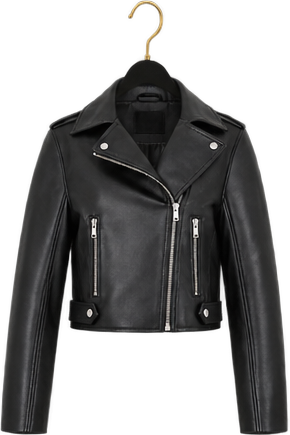
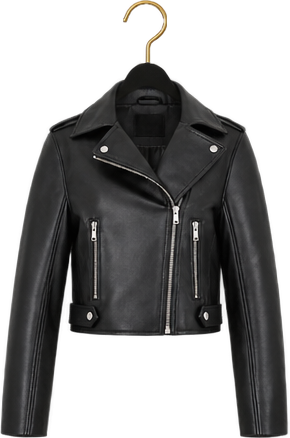
Cabides: gancho dourado unico em todas as pecas, na mesma altura e preso a barra
Claude-Session: https://claude.ai/code/session_01JWzVUcZkAyRrpFP19gM6id

diff --git a/index.html b/index.html
@@ -1697,12 +1697,12 @@ const rentalText=id=>{const r=RENTALS[id];return r?'Alugado de '+fmtBR(r.from)+'
 /* EVY: vitrine com a foto da loja. Cinco peças, de lado na arara e de frente ao passar o mouse.
    As imagens já trazem gancho dourado e cabide; cada gancho é alinhado à barra da arara. */
 (function evyMountStorePieces(){
- const SW=1671,SH=941,BAR_Y=187.5,CX0=492,CSTEP=56.33;
- const cfg=[{"id": "biker", "label": "Jaqueta biker preta", "H": 236, "front": {"src": "assets/pecas/jaqueta-biker-frontal.png", "w": 290, "h": 435, "rx": 0.5187, "ry": 0.043}, "side": {"src": "assets/pecas/jaqueta-biker-lateral.png", "w": 196, "h": 440, "rx": 0.4895, "ry": 0.0448}}, {"id": "pelobiker", "label": "Jaqueta biker com pelo", "H": 236, "front": {"src": "assets/pecas/jaqueta-pelo-frontal.webp", "w": 542, "h": 730, "rx": 0.4724, "ry": 0.0421}, "side": {"src": "assets/pecas/jaqueta-pelo-frontal.webp", "w": 542, "h": 730, "rx": 0.4724, "ry": 0.0421}}, {"id": "fur", "label": "Casaco preto de pelos", "H": 250, "front": {"src": "assets/pecas/casaco-pelo-frontal.png", "w": 319, "h": 455, "rx": 0.5058, "ry": 0.0426}, "side": {"src": "assets/pecas/casaco-pelo-lateral.png", "w": 218, "h": 470, "rx": 0.4912, "ry": 0.0391}}, {"id": "redinha", "label": "Body de redinha preto", "H": 312, "front": {"src": "assets/pecas/body-redinha-frontal.webp", "w": 377, "h": 704, "rx": 0.5253, "ry": 0.0321}, "side": {"src": "assets/pecas/body-redinha-lateral.webp", "w": 366, "h": 707, "rx": 0.4993, "ry": 0.0334}}, {"id": "renda", "label": "Vestido preto de renda com corset", "H": 425, "front": {"src": "assets/pecas/vestido-renda-frontal.webp", "w": 351, "h": 691, "rx": 0.5024, "ry": 0.024}, "side": {"src": "assets/pecas/vestido-renda-lateral.webp", "w": 290, "h": 694, "rx": 0.5065, "ry": 0.0244}}, {"id": "assimetrico", "label": "Vestido preto assimétrico", "H": 405, "front": {"src": "assets/pecas/vestido-assimetrico-frontal.png", "w": 179, "h": 489, "rx": 0.5114, "ry": 0.026}, "side": {"src": "assets/pecas/vestido-assimetrico-lateral.png", "w": 139, "h": 496, "rx": 0.4776, "ry": 0.0276}}, {"id": "balone", "label": "Vestido preto balonê", "H": 370, "front": {"src": "assets/pecas/vestido-veludo-frontal.png", "w": 250, "h": 456, "rx": 0.4979, "ry": 0.0279}, "side": {"src": "assets/pecas/vestido-veludo-lateral.png", "w": 214, "h": 440, "rx": 0.5238, "ry": 0.0289}}, {"id": "marrom", "label": "Vestido marrom balonê", "H": 370, "front": {"src": "assets/pecas/vestido-marrom-frontal.png", "w": 251, "h": 431, "rx": 0.5007, "ry": 0.0281}, "side": {"src": "assets/pecas/vestido-marrom-lateral.png", "w": 202, "h": 419, "rx": 0.4791, "ry": 0.0313}}, {"id": "vinho", "label": "Jaqueta vinho de verniz", "H": 236, "front": {"src": "assets/pecas/jaqueta-vinho-frontal.webp", "w": 529, "h": 725, "rx": 0.4985, "ry": 0.0419}, "side": {"src": "assets/pecas/jaqueta-vinho-lateral.webp", "w": 442, "h": 737, "rx": 0.4938, "ry": 0.0412}}, {"id": "oliva", "label": "Jaqueta verde-oliva com cinto", "H": 274, "front": {"src": "assets/pecas/jaqueta-oliva-frontal.webp", "w": 502, "h": 717, "rx": 0.5058, "ry": 0.0361}, "side": {"src": "assets/pecas/jaqueta-oliva-lateral.webp", "w": 419, "h": 721, "rx": 0.4973, "ry": 0.0368}}, {"id": "caramelo", "label": "Conjunto caramelo em couro", "H": 350, "front": {"src": "assets/pecas/conjunto-caramelo-frontal.webp", "w": 516, "h": 703, "rx": 0.4977, "ry": 0.0287}, "side": {"src": "assets/pecas/conjunto-caramelo-lateral.webp", "w": 489, "h": 691, "rx": 0.5162, "ry": 0.0292}}, {"id": "creme", "label": "Vestido creme drapeado", "H": 400, "front": {"src": "assets/pecas/vestido-creme-lateral.webp", "w": 275, "h": 697, "rx": 0.5231, "ry": 0.0255}, "side": {"src": "assets/pecas/vestido-creme-lateral.webp", "w": 275, "h": 697, "rx": 0.5231, "ry": 0.0255}}, {"id": "branco", "label": "Vestido branco longo", "H": 578, "front": {"src": "assets/pecas/vestido-branco-frontal.webp", "w": 221, "h": 700, "rx": 0.4824, "ry": 0.0186}, "side": {"src": "assets/pecas/vestido-branco-lateral.webp", "w": 213, "h": 698, "rx": 0.6338, "ry": 0.0182}}];
+ const SW=1671,SH=941,BAR_Y=190.0,CX0=492,CSTEP=56.33;
+ const cfg=[{"id": "biker", "label": "Jaqueta biker preta", "H": 235.9, "front": {"src": "assets/pecas/jaqueta-biker-frontal.png", "w": 290, "h": 438, "rx": 0.5139, "ry": 0.0432}, "side": {"src": "assets/pecas/jaqueta-biker-lateral.png", "w": 196, "h": 442, "rx": 0.4905, "ry": 0.0428}}, {"id": "pelobiker", "label": "Jaqueta biker com pelo", "H": 236.0, "front": {"src": "assets/pecas/jaqueta-pelo-frontal.webp", "w": 541, "h": 736, "rx": 0.4603, "ry": 0.0432}, "side": {"src": "assets/pecas/jaqueta-pelo-frontal.webp", "w": 541, "h": 736, "rx": 0.4603, "ry": 0.0432}}, {"id": "fur", "label": "Casaco preto de pelos", "H": 249.9, "front": {"src": "assets/pecas/casaco-pelo-frontal.png", "w": 319, "h": 457, "rx": 0.4971, "ry": 0.0407}, "side": {"src": "assets/pecas/casaco-pelo-lateral.png", "w": 218, "h": 473, "rx": 0.495, "ry": 0.0393}}, {"id": "redinha", "label": "Body de redinha preto", "H": 311.9, "front": {"src": "assets/pecas/body-redinha-frontal.webp", "w": 377, "h": 708, "rx": 0.5172, "ry": 0.0326}, "side": {"src": "assets/pecas/body-redinha-lateral.webp", "w": 366, "h": 710, "rx": 0.4925, "ry": 0.0325}}, {"id": "renda", "label": "Vestido preto de renda com corset", "H": 425.3, "front": {"src": "assets/pecas/vestido-renda-frontal.webp", "w": 351, "h": 695, "rx": 0.5018, "ry": 0.0242}, "side": {"src": "assets/pecas/vestido-renda-lateral.webp", "w": 290, "h": 696, "rx": 0.5196, "ry": 0.0241}}, {"id": "assimetrico", "label": "Vestido preto assimétrico", "H": 404.9, "front": {"src": "assets/pecas/vestido-assimetrico-frontal.png", "w": 179, "h": 490, "rx": 0.5064, "ry": 0.0251}, "side": {"src": "assets/pecas/vestido-assimetrico-lateral.png", "w": 139, "h": 496, "rx": 0.4788, "ry": 0.0248}}, {"id": "balone", "label": "Vestido preto balonê", "H": 369.9, "front": {"src": "assets/pecas/vestido-veludo-frontal.png", "w": 250, "h": 458, "rx": 0.4954, "ry": 0.0275}, "side": {"src": "assets/pecas/vestido-veludo-lateral.png", "w": 214, "h": 442, "rx": 0.5243, "ry": 0.0285}}, {"id": "marrom", "label": "Vestido marrom balonê", "H": 370.2, "front": {"src": "assets/pecas/vestido-marrom-frontal.png", "w": 251, "h": 433, "rx": 0.5048, "ry": 0.0277}, "side": {"src": "assets/pecas/vestido-marrom-lateral.png", "w": 202, "h": 420, "rx": 0.4798, "ry": 0.0286}}, {"id": "vinho", "label": "Jaqueta vinho de verniz", "H": 235.9, "front": {"src": "assets/pecas/jaqueta-vinho-frontal.webp", "w": 529, "h": 731, "rx": 0.4999, "ry": 0.0431}, "side": {"src": "assets/pecas/jaqueta-vinho-lateral.webp", "w": 442, "h": 743, "rx": 0.5003, "ry": 0.0424}}, {"id": "oliva", "label": "Jaqueta verde-oliva com cinto", "H": 274.2, "front": {"src": "assets/pecas/jaqueta-oliva-frontal.webp", "w": 501, "h": 722, "rx": 0.5045, "ry": 0.0374}, "side": {"src": "assets/pecas/jaqueta-oliva-lateral.webp", "w": 418, "h": 726, "rx": 0.4974, "ry": 0.0372}}, {"id": "caramelo", "label": "Conjunto caramelo em couro", "H": 350.2, "front": {"src": "assets/pecas/conjunto-caramelo-frontal.webp", "w": 516, "h": 707, "rx": 0.4617, "ry": 0.0293}, "side": {"src": "assets/pecas/conjunto-caramelo-lateral.webp", "w": 489, "h": 695, "rx": 0.4944, "ry": 0.0298}}, {"id": "creme", "label": "Vestido creme drapeado", "H": 399.7, "front": {"src": "assets/pecas/vestido-creme-lateral.webp", "w": 275, "h": 699, "rx": 0.5231, "ry": 0.0253}, "side": {"src": "assets/pecas/vestido-creme-lateral.webp", "w": 275, "h": 699, "rx": 0.5231, "ry": 0.0253}}, {"id": "branco", "label": "Vestido branco longo", "H": 577.9, "front": {"src": "assets/pecas/vestido-branco-frontal.webp", "w": 221, "h": 699, "rx": 0.4772, "ry": 0.0176}, "side": {"src": "assets/pecas/vestido-branco-lateral.webp", "w": 213, "h": 699, "rx": 0.6166, "ry": 0.0176}}];
  const host=document.getElementById('storePieces');
  if(!host)return;
  // Peças novas: entram no catálogo (tamanho e valor sob consulta) com a foto de frente, já com cabide.
- [{"id": "pelobiker", "image": "assets/pecas/jaqueta-pelo-frontal.webp", "name": "Jaqueta biker com pelo", "kind": "Jaquetas", "color": "Preto"}, {"id": "redinha", "image": "assets/pecas/body-redinha-frontal.webp", "name": "Body de redinha preto", "kind": "Conjuntos", "color": "Preto"}, {"id": "renda", "image": "assets/pecas/vestido-renda-frontal.webp", "name": "Vestido preto de renda com corset", "kind": "Vestidos", "color": "Preto"}, {"id": "vinho", "image": "assets/pecas/jaqueta-vinho-frontal.webp", "name": "Jaqueta vinho de verniz", "kind": "Jaquetas", "color": "Vinho"}, {"id": "oliva", "image": "assets/pecas/jaqueta-oliva-frontal.webp", "name": "Jaqueta verde-oliva com cinto", "kind": "Jaquetas", "color": "Verde-oliva"}, {"id": "caramelo", "image": "assets/pecas/conjunto-caramelo-frontal.webp", "name": "Conjunto caramelo em couro com casaco", "kind": "Conjuntos", "color": "Caramelo"}, {"id": "creme", "image": "assets/pecas/vestido-creme-lateral.webp", "name": "Vestido creme drapeado", "kind": "Vestidos", "color": "Creme"}, {"id": "branco", "price": 60, "perDay": true, "image": "assets/pecas/vestido-branco-frontal.webp", "name": "Vestido branco longo", "kind": "Vestidos", "color": "Branco"}].forEach(n=>{if(!P.some(x=>x.id===n.id))P.push({id:n.id,name:n.name,kind:n.kind,size:['A confirmar'],price:n.price??null,perDay:!!n.perDay,color:n.color,image:n.image,fit:'contain'})});
+ [{"id": "pelobiker", "image": "assets/pecas/jaqueta-pelo-frontal.webp", "name": "Jaqueta biker com pelo", "kind": "Jaquetas", "color": "Preto"}, {"id": "redinha", "image": "assets/pecas/body-redinha-frontal.webp", "name": "Body de redinha preto", "kind": "Conjuntos", "color": "Preto"}, {"id": "renda", "image": "assets/pecas/vestido-renda-frontal.webp", "name": "Vestido preto de renda com corset", "kind": "Vestidos", "color": "Preto"}, {"id": "vinho", "image": "assets/pecas/jaqueta-vinho-frontal.webp", "name": "Jaqueta vinho de verniz", "kind": "Jaquetas", "color": "Vinho"}, {"id": "oliva", "image": "assets/pecas/jaqueta-oliva-frontal.webp", "name": "Jaqueta verde-oliva com cinto", "kind": "Jaquetas", "color": "Verde-oliva"}, {"id": "caramelo", "image": "assets/pecas/conjunto-caramelo-frontal.webp", "name": "Conjunto caramelo em couro com casaco", "kind": "Conjuntos", "color": "Caramelo"}, {"id": "creme", "image": "assets/pecas/vestido-creme-lateral.webp", "name": "Vestido creme drapeado", "kind": "Vestidos", "color": "Creme"}, {"id": "branco", "image": "assets/pecas/vestido-branco-frontal.webp", "name": "Vestido branco longo", "kind": "Vestidos", "color": "Branco", "price": 60, "perDay": true}].forEach(n=>{if(!P.some(x=>x.id===n.id))P.push({id:n.id,name:n.name,kind:n.kind,size:['A confirmar'],price:n.price??null,perDay:!!n.perDay,color:n.color,image:n.image,fit:'contain'})});
  // A foto de cada peça no catálogo e na gaveta passa a ser a nova, já com cabide.
  cfg.forEach(c=>{const p=P.find(x=>x.id===c.id);if(p)p.image=c.front.src});
  const pct=(v,t)=>(v/t*100).toFixed(4)+'%';
